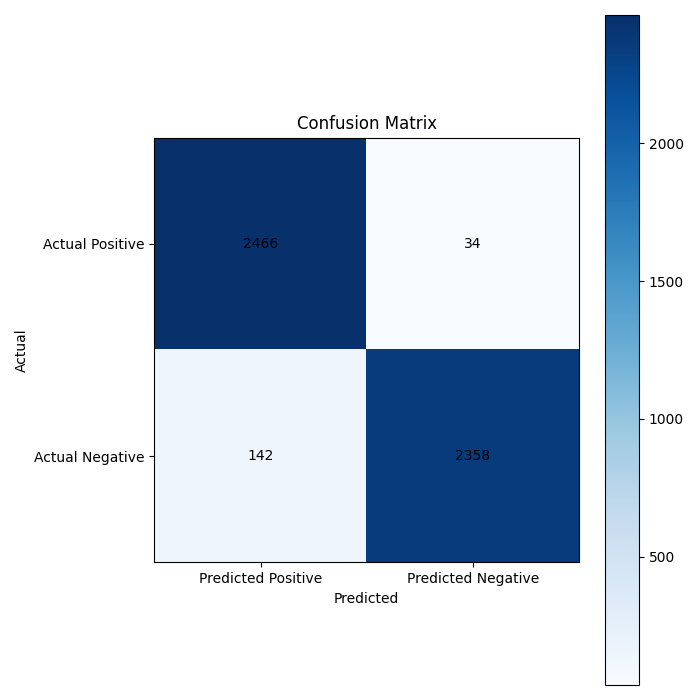
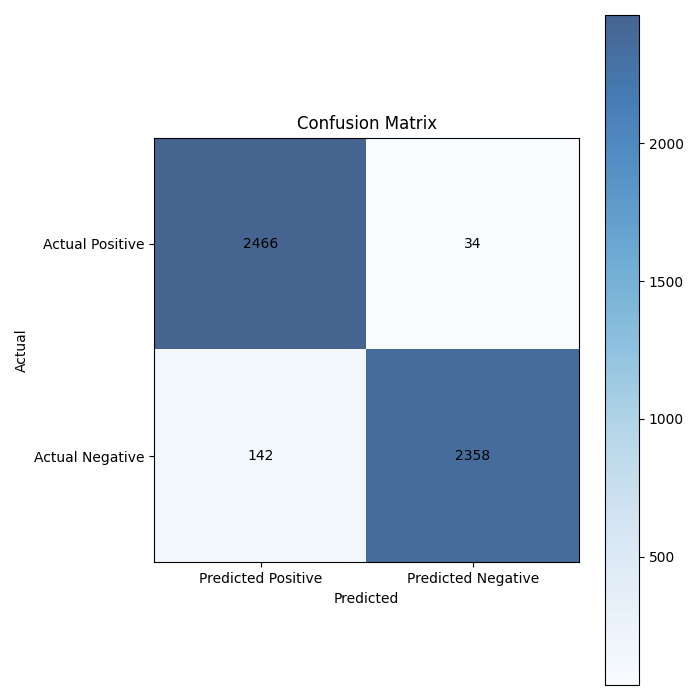
Changed confusion matrix plots

Changed region(s): [[0.21, 0.0, 0.93, 0.81]]

diff --git a/src/training/CNNEval.py b/src/training/CNNEval.py
@@ -59,7 +59,7 @@ def main():
     tp, fp, tn, fn = category_count(model, test_loader, 0.5, DEVICE)
     matrix = np.array([[tp, fn], [fp, tn]])
     plt.figure(figsize=(7, 7))
-    plt.imshow(matrix, cmap='Blues')
+    plt.imshow(matrix, cmap='Blues', alpha=0.75)
     plt.colorbar()
     plt.xticks([0, 1], ['Predicted Positive', 'Predicted Negative'])
     plt.yticks([0, 1], ['Actual Positive', 'Actual Negative'])

diff --git a/src/training/LogisticEval.py b/src/training/LogisticEval.py
@@ -57,7 +57,7 @@ def main():
     tp, fp, tn, fn = category_count(model, test_loader, 0.5, DEVICE)
     matrix = np.array([[tp, fn], [fp, tn]])
     plt.figure(figsize=(7, 7))
-    plt.imshow(matrix, cmap='Blues')
+    plt.imshow(matrix, cmap='Blues', alpha=0.75)
     plt.colorbar()
     plt.xticks([0, 1], ['Predicted Positive', 'Predicted Negative'])
     plt.yticks([0, 1], ['Actual Positive', 'Actual Negative'])

diff --git a/src/training/RNNEval.py b/src/training/RNNEval.py
@@ -59,7 +59,7 @@ def main():
     tp, fp, tn, fn = category_count(model, test_loader, 0.5, DEVICE)
     matrix = np.array([[tp, fn], [fp, tn]])
     plt.figure(figsize=(7, 7))
-    plt.imshow(matrix, cmap='Blues')
+    plt.imshow(matrix, cmap='Blues', alpha=0.75)
     plt.colorbar()
     plt.xticks([0, 1], ['Predicted Positive', 'Predicted Negative'])
     plt.yticks([0, 1], ['Actual Positive', 'Actual Negative'])

diff --git a/src/training/TransformerEval.py b/src/training/TransformerEval.py
@@ -60,7 +60,7 @@ def main():
     tp, fp, tn, fn = category_count(model, test_loader, 0.5, DEVICE)
     matrix = np.array([[tp, fn], [fp, tn]])
     plt.figure(figsize=(7, 7))
-    plt.imshow(matrix, cmap='Blues')
+    plt.imshow(matrix, cmap='Blues', alpha=0.75)
     plt.colorbar()
     plt.xticks([0, 1], ['Predicted Positive', 'Predicted Negative'])
     plt.yticks([0, 1], ['Actual Positive', 'Actual Negative'])

diff --git a/src/training/CNNTraining.py b/src/training/CNNTraining.py
@@ -16,7 +16,7 @@ if GPU_status:
 else:
     DEVICE = torch.device("cpu")
 
-BATCH_SIZE = 64
+BATCH_SIZE = 32
 EPOCHS = 30
 LEARNING_RATE = 0.0001
 DATA_TRUE_PATH = 'NewsDataset/true_processed.csv'

diff --git a/src/training/RNNTraining.py b/src/training/RNNTraining.py
@@ -16,7 +16,7 @@ if GPU_status:
 else:
     DEVICE = torch.device("cpu")
 
-BATCH_SIZE = 64
+BATCH_SIZE = 32
 EPOCHS = 30
 LEARNING_RATE = 0.0001
 DATA_TRUE_PATH = 'NewsDataset/true_processed.csv'

diff --git a/src/training/TransformerTraining.py b/src/training/TransformerTraining.py
@@ -16,7 +16,7 @@ if GPU_status:
 else:
     DEVICE = torch.device("cpu")
 
-BATCH_SIZE = 64
+BATCH_SIZE = 32
 EPOCHS = 30
 LEARNING_RATE = 0.0001
 DATA_TRUE_PATH = 'NewsDataset/true_processed.csv'
